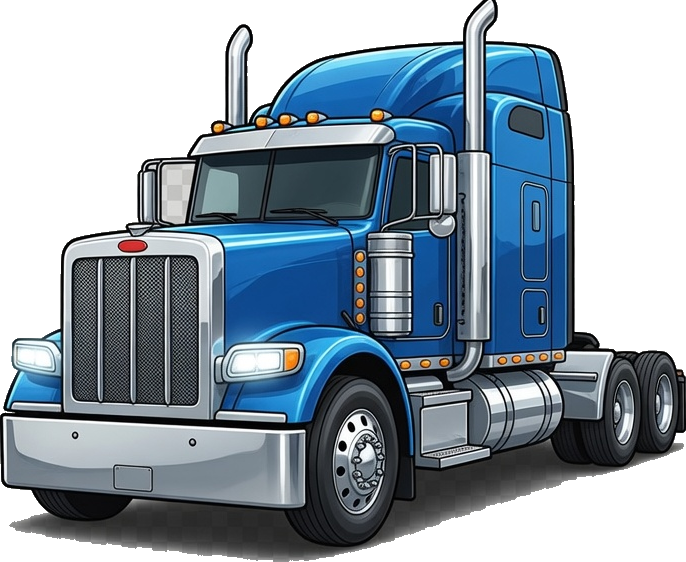
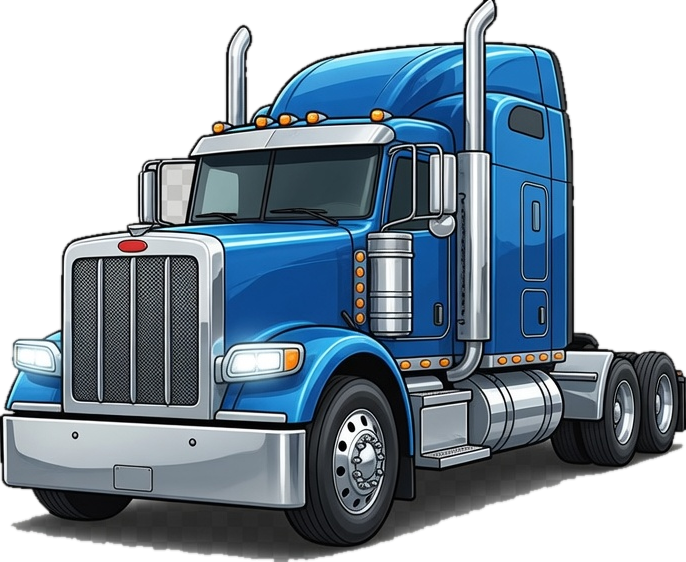
Remove the pass guarantee / refund claim everywhere (it does not exist)
There is no Pass Guarantee, no 100% money-back, no 24h refund, on CDL or any
plan. All sales are final. The claim was false advertising and the owner has
killed it for good. Swept every surface:

- FAQ (home + /faq): dropped the guarantee sentence from the CDL answer and
  the refund-policy answer; removed the JSON-LD 'What is the Pass Guarantee?'
  entry.
- Pricing/plan badges (home, /upgrade, /result, /test): the CDL 'Guarantee'
  badge is now an honest 'Car tests included' (new planCdlBadge key x5).
- featCdl: dropped the 'Pass or 100% refund' bullet (5 langs, both apps).
- Homepage footer guarantee pill removed (web + mobile).
- /terms, /about, /vs, layout SEO description: guarantee/refund text removed.
- Telegram bot: pricing + refund messages (all 5 langs) no longer claim a
  guarantee or a 24h refund.

Verified: no tex.guarantee*/planGuaranteedBadge/Pass Guarantee/100% refund
renders anywhere. tsc + lint clean.

diff --git a/lib/translations.js b/lib/translations.js
@@ -405,6 +405,7 @@ export const t = {
     proPlanLabel: 'PRO PLAN',
     // Pricing v2
     planGuaranteedBadge: '🛡️ Guarantee',
+    planCdlBadge: 'Car tests included',
     // pricingValueProp removed 2026-05-26: "money back if you don't pass" was
     // not our actual policy. 24h refund (universal) and CDL Pro Pass Guarantee
     // (CDL only) are the real promises; both are stated elsewhere.
@@ -424,7 +425,7 @@ export const t = {
       { q: 'Will I pass on the first try?', a: 'That\'s the plan. Practice until Real Exam mode shows a steady 85%+. That\'s how our customers walk in and pass first try.' },
       { q: 'What do I get besides the questions?', a: 'A personal path to your license: every answer explained with a reference to the official manual, a real-exam simulation with the same timer, and live human support on Telegram, from DMV paperwork to finding a driving school nearby. You\'re not studying alone.' },
       { q: 'Why DMVSOS instead of a free app?', a: 'Free apps give you a handful of outdated questions and disappear when you need help. We re-verify the whole bank every month, cover all 50 states, and answer you personally when you get stuck.' },
-      { q: 'What does CDL Pro include?', a: 'All three CDL sections as separate practice modes: General Knowledge, Air Brakes, Combination Vehicles, plus the full Car bank included. And the Pass Guarantee: fail your real exam, get a 100% refund.' },
+      { q: 'What does CDL Pro include?', a: 'All three CDL sections as separate practice modes: General Knowledge, Air Brakes, Combination Vehicles, and the full Car bank is included too.' },
       { q: 'How does billing work?', a: 'One payment, 30 days of access. No subscription, no auto-renewal. Need more time? Extend for $9.99.' },
       { q: 'Are the questions up to date?', a: 'We re-verify the entire bank every month. When your state changes a rule, our tests reflect it within about two weeks.' },
     ],
@@ -450,7 +451,7 @@ export const t = {
     // Feature lists for pricing cards
     featMoto: ['✓ Full Motorcycle question bank', '✓ All 50 states · 5 languages', '🌐 View original English question anytime', '✓ All exam modes unlocked', '✓ Real exam simulation', '✓ Explanations straight from the manual'],
     featCar: ['✓ Full Car question bank', '✓ All 50 states · 5 languages', '🌐 View original English question anytime', '✓ All exam modes unlocked', '✓ Real exam simulation (60 min)', '✓ Explanations straight from the manual'],
-    featCdl: ['✓ Full CDL question bank', '✓ Car tests included', '✓ All 50 states · 5 languages', '🌐 View original English question anytime', '✓ All exam modes unlocked', '🛡️ Pass or 100% refund'],
+    featCdl: ['✓ Full CDL question bank', '✓ Car tests included', '✓ All 50 states · 5 languages', '🌐 View original English question anytime', '✓ All exam modes unlocked'],
     // Upgrade page
     freePracticeLabel: 'Free Practice',
     freePracticeDesc: '20 questions · always included · all 50 states',
@@ -857,6 +858,7 @@ export const t = {
     proPlanLabel: 'PRO ПЛАН',
     // Pricing v2
     planGuaranteedBadge: '🛡️ Гарантия',
+    planCdlBadge: 'Тесты для авто включены',
     // pricingValueProp removed — fail-refund не входит в политику.
     pricingStartFree: 'Или начни бесплатно  ·  20 вопросов, без регистрации',
     // Social proof
@@ -874,7 +876,7 @@ export const t = {
       { q: 'Сдам ли я с первого раза?', a: 'Для этого всё и сделано. Тренируйся, пока режим «Реальный экзамен» не покажет стабильные 85%+. Так наши клиенты и сдают с первого раза.' },
       { q: 'Что я получаю, кроме вопросов?', a: 'Личный путь до прав: объяснение каждого ответа со ссылкой на официальный мануал, английский оригинал любого вопроса в одно касание (в Pro), чтобы на реальном экзамене ничего не удивило, симуляция экзамена с настоящим таймером и живая поддержка в Telegram на русском: от документов для DMV до автошколы рядом. Ты не один.' },
       { q: 'Можно ли сдавать реальный экзамен на русском?', a: 'В большинстве штатов да: Калифорния, Нью-Йорк, Техас и ещё 30+. Где тест только на английском, тренируешься на русском с английским оригиналом рядом и приходишь готовым.' },
-      { q: 'Что включает CDL Pro?', a: 'Все три секции CDL отдельными режимами: General Knowledge, Air Brakes, Combination Vehicles, плюс полная база для легковых включена. И Pass Guarantee: не сдал реальный экзамен, вернём 100%.' },
+      { q: 'Что включает CDL Pro?', a: 'Все три секции CDL отдельными режимами: General Knowledge, Air Brakes, Combination Vehicles, и полная база для легковых тоже включена.' },
       { q: 'Как работает оплата?', a: 'Один платёж, 30 дней доступа. Без подписки и автосписаний. Нужно больше времени? Продление за $9.99.' },
       { q: 'Вопросы обновляются?', a: 'Перепроверяем всю базу каждый месяц. Штат поменял правило? У нас это появится в течение пары недель.' },
     ],
@@ -897,7 +899,7 @@ export const t = {
     extendCta: '+30 дней · $9.99',
     featMoto: ['✓ Полная база вопросов по мотоциклам', '✓ Все 50 штатов · 5 языков', '🌐 Оригинал вопроса на английском в любой момент', '✓ Все режимы тестов', '✓ Симуляция экзамена DMV', '✓ Подробные объяснения прямо из мануала'],
     featCar: ['✓ Полная база вопросов для авто', '✓ Все 50 штатов · 5 языков', '🌐 Оригинал вопроса на английском в любой момент', '✓ Все режимы тестов', '✓ Симуляция экзамена DMV (60 мин)', '✓ Подробные объяснения прямо из мануала'],
-    featCdl: ['✓ Полная база вопросов CDL', '✓ Тесты для авто включены', '✓ Все 50 штатов · 5 языков', '🌐 Оригинал вопроса на английском в любой момент', '✓ Все режимы тестов', '🛡️ Сдашь или 100% возврат'],
+    featCdl: ['✓ Полная база вопросов CDL', '✓ Тесты для авто включены', '✓ Все 50 штатов · 5 языков', '🌐 Оригинал вопроса на английском в любой момент', '✓ Все режимы тестов'],
     freePracticeLabel: 'Бесплатная практика',
     freePracticeDesc: '20 вопросов · всегда включено · все 50 штатов',
     freePracticePrice: '✓ Бесплатно',
@@ -1301,6 +1303,7 @@ export const t = {
     proPlanLabel: 'PLAN PRO',
     // Pricing v2
     planGuaranteedBadge: '🛡️ Garantía',
+    planCdlBadge: 'Pruebas de auto incluidas',
     // pricingValueProp eliminado — la devolución por suspender no es política.
     pricingStartFree: 'O empieza gratis  ·  20 preguntas, sin registro',
     // Social proof
@@ -1318,7 +1321,7 @@ export const t = {
       { q: '¿Aprobaré a la primera?', a: 'Para eso está hecho. Practica hasta que el modo Examen Real te muestre un 85%+ estable. Así nuestros clientes aprueban a la primera.' },
       { q: '¿Qué recibo además de las preguntas?', a: 'Un camino personal hasta tu licencia: cada respuesta explicada con referencia al manual oficial, el original en inglés de cualquier pregunta con un toque (en Pro) para que nada te sorprenda en el examen, simulación con cronómetro real y soporte humano por Telegram en español: desde los documentos del DMV hasta una autoescuela cerca. No estás solo.' },
       { q: '¿Puedo tomar el examen real en español?', a: 'En la mayoría de los estados sí: California, Nueva York, Texas y 30+ más. Donde solo es en inglés, practicas en español con el original en inglés al lado y llegas preparado.' },
-      { q: '¿Qué incluye CDL Pro?', a: 'Las tres secciones del CDL como modos separados: General Knowledge, Air Brakes, Combination Vehicles, más la base completa de auto incluida. Y la Pass Guarantee: si repruebas el examen real, te devolvemos el 100%.' },
+      { q: '¿Qué incluye CDL Pro?', a: 'Las tres secciones del CDL como modos separados: General Knowledge, Air Brakes, Combination Vehicles, y la base completa de auto también está incluida.' },
       { q: '¿Cómo funciona el pago?', a: 'Un solo pago, 30 días de acceso. Sin suscripción ni renovación automática. ¿Necesitas más tiempo? Extiende por $9.99.' },
       { q: '¿Se actualizan las preguntas?', a: 'Reverificamos toda la base cada mes. Si tu estado cambia una regla, nuestros tests lo reflejan en un par de semanas.' },
     ],
@@ -1341,7 +1344,7 @@ export const t = {
     extendCta: '+30 días · $9.99',
     featMoto: ['✓ Banco completo de preguntas de motocicleta', '✓ Los 50 estados · 5 idiomas', '🌐 Pregunta original en inglés en cualquier momento', '✓ Todos los modos de examen', '✓ Simulación de examen real', '✓ Explicaciones directas del manual'],
     featCar: ['✓ Banco completo de preguntas de auto', '✓ Los 50 estados · 5 idiomas', '🌐 Pregunta original en inglés en cualquier momento', '✓ Todos los modos de examen', '✓ Simulación de examen DMV (60 min)', '✓ Explicaciones directas del manual'],
-    featCdl: ['✓ Banco completo de preguntas CDL', '✓ Pruebas de auto incluidas', '✓ Los 50 estados · 5 idiomas', '🌐 Pregunta original en inglés en cualquier momento', '✓ Todos los modos de examen', '🛡️ Apruebas o reembolso del 100%'],
+    featCdl: ['✓ Banco completo de preguntas CDL', '✓ Pruebas de auto incluidas', '✓ Los 50 estados · 5 idiomas', '🌐 Pregunta original en inglés en cualquier momento', '✓ Todos los modos de examen'],
     freePracticeLabel: 'Práctica gratuita',
     freePracticeDesc: '20 preguntas · siempre incluido · los 50 estados',
     freePracticePrice: '✓ Gratis',
@@ -1745,6 +1748,7 @@ export const t = {
     proPlanLabel: 'PRO计划',
     // Pricing v2
     planGuaranteedBadge: '🛡️ 保证通过',
+    planCdlBadge: '含汽车考试',
     // pricingValueProp 已移除 — 不通过退款不属于我们的政策。
     pricingStartFree: '或免费开始  ·  20道题，无需注册',
     // Social proof
@@ -1762,7 +1766,7 @@ export const t = {
       { q: '我能一次通过吗？', a: '这正是我们的目标。练到「真实考试」模式稳定在 85% 以上，我们的客户就是这样一次通过的。' },
       { q: '除了题目我还能得到什么？', a: '一条通往驾照的专属路径：每道答案都附官方手册出处说明，任意题目一键查看英文原题（Pro 功能），考场上不再担心英文表述；还有真实计时的模拟考试，以及 Telegram 中文人工支持，从 DMV 材料到附近驾校。你不是一个人在准备。' },
       { q: '真实考试可以用中文考吗？', a: '大多数州可以：加州、纽约、德州等 30 多个州。只允许英文的州，你可以用中文练习、随时对照英文原题，准备充分再上场。' },
-      { q: 'CDL Pro 包含什么？', a: 'CDL 三个部分独立练习：General Knowledge、Air Brakes、Combination Vehicles，并包含完整小车题库。还有 Pass Guarantee：真实考试未通过，全额退款。' },
+      { q: 'CDL Pro 包含什么？', a: 'CDL 三个部分独立练习：General Knowledge、Air Brakes、Combination Vehicles，并且完整的小车题库也包含在内。' },
       { q: '怎么收费？', a: '一次付款，30 天使用。无订阅、不自动续费。需要更多时间？$9.99 延长 30 天。' },
       { q: '题目会更新吗？', a: '我们每月重新核验整个题库。州里规则一变，两周内同步到题目。' },
     ],
@@ -1785,7 +1789,7 @@ export const t = {
     extendCta: '+30天 · $9.99',
     featMoto: ['✓ 完整摩托车题库', '✓ 全部50个州 · 5种语言', '🌐 随时查看英文原题', '✓ 所有考试模式', '✓ 真实考试模拟', '✓ 解释直接来自官方手册'],
     featCar: ['✓ 完整汽车题库', '✓ 全部50个州 · 5种语言', '🌐 随时查看英文原题', '✓ 所有考试模式', '✓ 真实考试模拟（60分钟）', '✓ 解释直接来自官方手册'],
-    featCdl: ['✓ 完整CDL题库', '✓ 包含汽车考试', '✓ 全部50个州 · 5种语言', '🌐 随时查看英文原题', '✓ 所有考试模式', '🛡️ 通过或全额退款'],
+    featCdl: ['✓ 完整CDL题库', '✓ 包含汽车考试', '✓ 全部50个州 · 5种语言', '🌐 随时查看英文原题', '✓ 所有考试模式'],
     freePracticeLabel: '免费练习',
     freePracticeDesc: '20道题 · 始终免费 · 全部50个州',
     freePracticePrice: '✓ 免费',
@@ -2189,6 +2193,7 @@ export const t = {
     proPlanLabel: 'PRO ПЛАН',
     // Pricing v2
     planGuaranteedBadge: '🛡️ Гарантія',
+    planCdlBadge: 'Тести для авто включені',
     // pricingValueProp прибрано — повернення коштів за провал тесту не є нашою політикою.
     pricingStartFree: 'Або почни безкоштовно  ·  20 питань, без реєстрації',
     // Social proof
@@ -2206,7 +2211,7 @@ export const t = {
       { q: 'Чи складу я з першого разу?', a: 'Саме для цього все і зроблено. Тренуйся, поки режим «Реальний іспит» не покаже стабільні 85%+. Так наші клієнти і складають з першого разу.' },
       { q: 'Що я отримую, крім питань?', a: 'Особистий шлях до прав: пояснення кожної відповіді з посиланням на офіційний мануал, англійський оригінал будь-якого питання в один дотик (у Pro), щоб на реальному іспиті ніщо не здивувало, симуляція іспиту зі справжнім таймером і жива підтримка в Telegram українською: від документів для DMV до автошколи поруч. Ти не сам.' },
       { q: 'Чи можна складати реальний іспит українською?', a: 'У більшості штатів так: Каліфорнія, Нью-Йорк, Техас і ще 30+. Де тест лише англійською, тренуєшся українською з англійським оригіналом поруч і приходиш готовим.' },
-      { q: 'Що включає CDL Pro?', a: 'Усі три секції CDL окремими режимами: General Knowledge, Air Brakes, Combination Vehicles, плюс повна база для легкових включена. І Pass Guarantee: не склав реальний іспит, повернемо 100%.' },
+      { q: 'Що включає CDL Pro?', a: 'Усі три секції CDL окремими режимами: General Knowledge, Air Brakes, Combination Vehicles, і повна база для легкових теж включена.' },
       { q: 'Як працює оплата?', a: 'Один платіж, 30 днів доступу. Без підписки й автосписань. Потрібно більше часу? Продовження за $9.99.' },
       { q: 'Чи оновлюються питання?', a: 'Переперевіряємо всю базу щомісяця. Штат змінив правило? У нас це зʼявиться протягом пари тижнів.' },
     ],
@@ -2229,7 +2234,7 @@ export const t = {
     extendCta: '+30 днів · $9.99',
     featMoto: ['✓ Повна база питань з мотоциклів', '✓ Усі 50 штатів · 5 мов', '🌐 Оригінал питання англійською в будь-який момент', '✓ Усі режими тестів', '✓ Емуляція реального іспиту', '✓ Детальні пояснення прямо з посібника'],
     featCar: ['✓ Повна база питань для авто', '✓ Усі 50 штатів · 5 мов', '🌐 Оригінал питання англійською в будь-який момент', '✓ Усі режими тестів', '✓ Емуляція реального іспиту (60 хв)', '✓ Детальні пояснення прямо з посібника'],
-    featCdl: ['✓ Повна база питань CDL', '✓ Тести для авто включені', '✓ Усі 50 штатів · 5 мов', '🌐 Оригінал питання англійською в будь-який момент', '✓ Усі режими тестів', '🛡️ Складеш або 100% повернення'],
+    featCdl: ['✓ Повна база питань CDL', '✓ Тести для авто включені', '✓ Усі 50 штатів · 5 мов', '🌐 Оригінал питання англійською в будь-який момент', '✓ Усі режими тестів'],
     freePracticeLabel: 'Безкоштовна практика',
     freePracticeDesc: '20 питань · завжди включено · усі 50 штатів',
     freePracticePrice: '✓ Безкоштовно',

diff --git a/app/api/telegram/route.js b/app/api/telegram/route.js
@@ -117,20 +117,17 @@ Or just type your question - I'll forward it.`,
 
 🏍️ Moto Pass - $19.99 / 30 days
 🚗 Auto Pass - $29.99 / 30 days
-🚛 CDL Pro - $49.99 / 30 days + Pass Guarantee
+🚛 CDL Pro - $49.99 / 30 days (Car tests included)
 
-🔄 Need more time? Extend any pass for $9.99 / +30 days
-
-24h full refund. No questions asked.`,
+🔄 Need more time? Extend any pass for $9.99 / +30 days`,
     states: `🗽 We cover <b>all 50 US states + DC</b>.
 
 Just pick your state on dmvsos.com - every state has its own question bank built from the official driver's handbook.`,
     languages: `🌍 We support 5 languages:
 🇺🇸 English  🇷🇺 Русский  🇪🇸 Español  🇨🇳 中文  🇺🇦 Українська`,
-    refund: `💸 <b>Refund policy</b>
+    refund: `💸 <b>Payments</b>
 
-Within 24h of purchase: full refund, no questions asked.
-CDL Pro Pass Guarantee: refund or 90d extension if you fail the actual DMV test with 85%+ practice score.`,
+Passes are one-time purchases, so they are final. If something is wrong, message us here and we will make it right.`,
     human: `🧑💻 Sending your message to Evgenii (founder). Usually replies within 4 hours.`,
     forwardedAck: `✅ Got it. Evgenii will reply shortly.`,
     unknown: `Commands: /start /pricing /states /languages /refund /human /lang`,
@@ -139,10 +136,10 @@ CDL Pro Pass Guarantee: refund or 90d extension if you fail the actual DMV test 
   },
   ru: {
     welcome: `👋 Привет! Я бот поддержки DMVSOS.\n\n/pricing /states /languages /refund /human /lang\n\nИли просто напиши вопрос - передам.`,
-    pricing: `💰 <b>Одноразовая оплата - без подписок</b>\n\n🏍️ Moto Pass - $19.99 / 30 дней\n🚗 Auto Pass - $29.99 / 30 дней\n🚛 CDL Pro - $49.99 / 30 дней + Pass Guarantee\n\n🔄 Продление $9.99 / +30 дней\n24h полный refund.`,
+    pricing: `💰 <b>Одноразовая оплата - без подписок</b>\n\n🏍️ Moto Pass - $19.99 / 30 дней\n🚗 Auto Pass - $29.99 / 30 дней\n🚛 CDL Pro - $49.99 / 30 дней (тесты для авто включены)\n\n🔄 Продление $9.99 / +30 дней`,
     states: `🗽 Покрываем <b>все 50 штатов + DC</b>. Выбери штат на dmvsos.com.`,
     languages: `🌍 5 языков: 🇺🇸 EN · 🇷🇺 RU · 🇪🇸 ES · 🇨🇳 ZH · 🇺🇦 UA`,
-    refund: `💸 24h полный refund без вопросов. CDL Pro Pass Guarantee: refund или продление 90 дней при провале с 85%+ score.`,
+    refund: `💸 Пропуска - разовая покупка, поэтому они окончательны. Если что-то не так, напиши сюда, разберёмся.`,
     human: `🧑💻 Передаю Евгению. Обычно отвечает в течение 4 часов.`,
     forwardedAck: `✅ Получил. Евгений ответит скоро.`,
     unknown: `Команды: /start /pricing /states /languages /refund /human /lang`,
@@ -154,7 +151,7 @@ CDL Pro Pass Guarantee: refund or 90d extension if you fail the actual DMV test 
     pricing: `💰 Pago único, sin suscripciones\n🏍️ Moto $19.99 · 🚗 Auto $29.99 · 🚛 CDL $49.99 / 30 días\nExtensión $9.99 / +30 días`,
     states: `🗽 Los 50 estados + DC en dmvsos.com.`,
     languages: `🌍 5 idiomas: EN · RU · ES · ZH · UA`,
-    refund: `💸 Reembolso completo en 24h.`,
+    refund: `💸 Las compras son únicas y finales. Si algo está mal, escríbenos aquí y lo resolvemos.`,
     human: `🧑💻 Enviando a Evgenii. Responde en ~4h.`,
     forwardedAck: `✅ Recibido.`,
     unknown: `Comandos: /start /pricing /states /languages /refund /human /lang`,
@@ -166,7 +163,7 @@ CDL Pro Pass Guarantee: refund or 90d extension if you fail the actual DMV test 
     pricing: `💰 一次性付款\n🏍️ $19.99 · 🚗 $29.99 · 🚛 $49.99 / 30天`,
     states: `🗽 全美50州 + DC，在 dmvsos.com 选择`,
     languages: `🌍 5种语言`,
-    refund: `💸 24小时全额退款。`,
+    refund: `💸 通行证为一次性购买，因此为最终交易。如有问题，请在此联系我们，我们会处理。`,
     human: `🧑💻 转发给Evgenii，约4小时回复。`,
     forwardedAck: `✅ 已收到。`,
     unknown: `命令: /start /pricing /states /languages /refund /human /lang`,
@@ -178,7 +175,7 @@ CDL Pro Pass Guarantee: refund or 90d extension if you fail the actual DMV test 
     pricing: `💰 Разова оплата, без підписок\n🏍️ $19.99 · 🚗 $29.99 · 🚛 $49.99 / 30 днів`,
     states: `🗽 Усі 50 штатів + DC на dmvsos.com.`,
     languages: `🌍 5 мов`,
-    refund: `💸 Повне повернення протягом 24h.`,
+    refund: `💸 Пропуски - разова покупка, тож вони остаточні. Якщо щось не так, напиши сюди, розберемося.`,
     human: `🧑💻 Передаю Євгенію. Відповідає за ~4 години.`,
     forwardedAck: `✅ Прийнято.`,
     unknown: `Команди: /start /pricing /states /languages /refund /human /lang`,

diff --git a/app/page.js b/app/page.js
@@ -118,14 +118,6 @@ export default function Home() {
           text: 'Yes. DMVSOS covers all 50 US states for Car, CDL, and Motorcycle permit tests.',
         },
       },
-      {
-        '@type': 'Question',
-        name: 'What is the Pass Guarantee?',
-        acceptedAnswer: {
-          '@type': 'Answer',
-          text: `CDL Pro (${PASS_META.cdl.price}, 30-day access) includes a 100% money-back guarantee if you fail your CDL test, plus direct support via Telegram in your language.`,
-        },
-      },
     ],
   });
 
@@ -572,7 +564,7 @@ export default function Home() {
           {/* CDL Pro  ·  best value */}
           <div className="relative bg-white rounded-2xl p-5 border-2 border-[#F59E0B] shadow-md flex flex-col">
             <span className="absolute -top-3 left-1/2 -translate-x-1/2 bg-[#F59E0B] text-[#0B1C3D] text-[10px] font-bold px-3 py-1 rounded-full whitespace-nowrap">
-              {tex.planGuaranteedBadge}
+              {tex.planCdlBadge || 'Car tests included'}
             </span>
             <div className="h-[66px] flex items-center justify-center mb-2 mt-1">
               {/* eslint-disable-next-line @next/next/no-img-element */}
@@ -711,13 +703,8 @@ export default function Home() {
         </div>
       </section>
 
-      {/* Footer with guarantee badge */}
+      {/* Footer */}
       <footer className="w-full max-w-lg mx-auto px-4 mt-8 pb-8">
-        <div className="text-center mb-4">
-          <span className="inline-flex items-center gap-1.5 text-xs text-[#10B981] font-medium bg-[#ECFDF5] px-3 py-1.5 rounded-full">
-            <svg width="13" height="13" viewBox="0 0 24 24" className="shrink-0" style={{ fill: '#10B981' }}><path d="M12,1L3,5V11C3,16.55 6.84,21.74 12,23C17.16,21.74 21,16.55 21,11V5L12,1Z" /></svg>{tex.guaranteeBadge}
-          </span>
-        </div>
         <p className="text-xs text-[#94A3B8] text-center leading-relaxed">
           {tex.footerLegal || 'By continuing, you agree to our'}{' '}
           <Link href="/terms" className="text-[#2563EB] font-medium">{tex.terms || 'Terms'}</Link> {tex.and || 'and'}{' '}

diff --git a/app/upgrade/page.js b/app/upgrade/page.js
@@ -64,7 +64,7 @@ function UpgradeContent() {
       img: '/vehicles/truck-hero.png',
       name: tex.planCdlPro,
       duration: tex.planDuration,
-      badge: tex.planGuaranteedBadge,
+      badge: tex.planCdlBadge || 'Car tests included',
       features: tex.featCdl,
       btnLabel: tex.planGetCdl,
     },
@@ -303,11 +303,8 @@ function UpgradeContent() {
         </ul>
       </div>
 
-      {/* Removed: pricing value-prop line claimed "money back if you don't
-          pass" — that's NOT our actual policy (24h refund is universal,
-          fail-refund only exists for CDL Pro Pass Guarantee). Kept the
-          24h-refund / no-subscription wording inside the bureaucracy block
-          and the upgradeSubtext at the top — those are accurate. */}
+      {/* No refund or guarantee claims anywhere: there is no pass guarantee,
+          no money-back, no 24h refund, on any plan. All sales are final. */}
 
       {error && (
         <p className="text-center text-xs text-red-400 font-medium mb-4">

diff --git a/app/vs/page.js b/app/vs/page.js
@@ -74,7 +74,7 @@ const COMPARISON = [
   },
   {
     feature: 'Refund policy',
-    dmvsos: 'All sales final (CDL Pro: pass or 100% refund)',
+    dmvsos: 'All sales final',
     driversed: '72h with conditions',
     aceable: 'Varies by state',
     drivingtests: 'N/A',
@@ -94,9 +94,9 @@ const COMPARISON = [
     drivingtests: 'Email',
   },
   {
-    feature: 'CDL Pass Guarantee',
-    dmvsos: '100% refund if you fail the real CDL test',
-    driversed: 'Pass Guarantee on some courses',
+    feature: 'CDL Pro includes Car tests',
+    dmvsos: 'Yes, one pass covers both',
+    driversed: 'No',
     aceable: 'No',
     drivingtests: 'No',
   },

diff --git a/app/faq/page.js b/app/faq/page.js
@@ -23,7 +23,7 @@ const QA = [
   },
   {
     q: 'Do you offer the Commercial Driver License (CDL) test?',
-    a: 'Yes. CDL Pro pass includes General Knowledge, Air Brakes, and Combination Vehicles sections. Specific endorsements (Hazmat, Tanker, Passenger, School Bus) are coming. CDL Pro includes our Pass Guarantee: pass the real CDL test or get a 100% refund.',
+    a: 'Yes. CDL Pro pass includes General Knowledge, Air Brakes, and Combination Vehicles sections, and the Car tests are included too. Specific endorsements (Hazmat, Tanker, Passenger, School Bus) are coming.',
   },
   {
     q: 'Is there a subscription?',
@@ -31,7 +31,7 @@ const QA = [
   },
   {
     q: 'What is the refund policy?',
-    a: 'Passes are one-time purchases, so they are final. If something is wrong, message us and we will make it right. CDL Pro carries a Pass Guarantee: pass the real CDL test or get a 100% refund (submit your DMV fail letter within 30 days).',
+    a: 'Passes are one-time purchases, so they are final. If something is wrong, message us on Telegram and we will make it right.',
   },
   {
     q: 'Do I need to create an account?',

diff --git a/app/terms/page.js b/app/terms/page.js
@@ -59,8 +59,7 @@ export default function Terms() {
                 Moto Pass ($19.99) for motorcycle tests, Auto Pass ($29.99) for car tests, and CDL Pro
                 ($49.99) for CDL tests with car content included. Each pass unlocks 30 days of access.
                 An Extension ($9.99) adds another 30 days to any active pass.
-                All purchases are final. The CDL Pro plan includes a Pass Guarantee — a full refund if you fail your
-                CDL test (subject to verification by submitting your DMV fail letter within 30 days).
+                All purchases are final.
               </p>
             </section>
 

diff --git a/app/about/page.js b/app/about/page.js
@@ -75,7 +75,7 @@ export default function AboutPage() {
                 <strong>Free to start.</strong> 20 questions per state per language, no signup.
               </li>
               <li>
-                <strong>CDL Pass Guarantee:</strong> pass the real CDL test or get a 100% refund.
+                <strong>CDL Pro includes the Car tests too.</strong> One pass covers commercial and car prep.
               </li>
             </ul>
 

diff --git a/app/layout.js b/app/layout.js
@@ -131,7 +131,7 @@ const jsonLd = {
           name: 'CDL Pro',
           price: '49.99',
           priceCurrency: 'USD',
-          description: '30 days unlimited CDL (Commercial Driver License) practice tests with Pass Guarantee.',
+          description: '30 days unlimited CDL (Commercial Driver License) practice tests, with the Car tests included.',
         },
       ],
       featureList: [

diff --git a/app/result/page.js b/app/result/page.js
@@ -274,7 +274,7 @@ function ResultContent() {
                     borderColor: rIsCdl ? '#F59E0B' : rIsMoto ? '#D97706' : '#2563EB',
                     background: rIsCdl ? '#FFFBEB' : rIsMoto ? '#FFF7ED' : '#EFF6FF',
                   }}>
-                  {rIsCdl && <div className="text-[9px] font-bold text-[#0B1C3D] bg-[#F59E0B] rounded-full px-1.5 py-0.5 mb-1 mx-auto w-fit">{tex.planGuaranteedBadge}</div>}
+                  {rIsCdl && <div className="text-[9px] font-bold text-[#0B1C3D] bg-[#F59E0B] rounded-full px-1.5 py-0.5 mb-1 mx-auto w-fit">{tex.planCdlBadge || 'Car tests included'}</div>}
                   {!rIsCdl && !rIsMoto && <div className="text-[9px] font-bold text-white bg-[#2563EB] rounded-full px-1.5 py-0.5 mb-1 mx-auto w-fit">{tex.planPopular}</div>}
                   <div className="text-3xl mb-1">{rPlan.icon}</div>
                   <div className="text-xs font-bold mb-0.5" style={{ color: rIsCdl ? '#92400E' : rIsMoto ? '#D97706' : '#2563EB' }}>

diff --git a/app/test/page.js b/app/test/page.js
@@ -1234,7 +1234,7 @@ function TestContent() {
                     borderColor: isCdl ? '#F59E0B' : isMoto ? '#D97706' : '#2563EB',
                     background: isCdl ? '#FFFBEB' : isMoto ? '#FFF7ED' : '#EFF6FF',
                   }}>
-                  {isCdl && <div className="text-[9px] font-bold text-[#0B1C3D] bg-[#F59E0B] rounded-full px-1.5 py-0.5 mb-1 mx-auto w-fit">{tex.planGuaranteedBadge}</div>}
+                  {isCdl && <div className="text-[9px] font-bold text-[#0B1C3D] bg-[#F59E0B] rounded-full px-1.5 py-0.5 mb-1 mx-auto w-fit">{tex.planCdlBadge || 'Car tests included'}</div>}
                   {!isCdl && !isMoto && <div className="text-[9px] font-bold text-white bg-[#2563EB] rounded-full px-1.5 py-0.5 mb-1 mx-auto w-fit">{tex.planPopular}</div>}
                   <div className="text-3xl mb-1">{plan.icon}</div>
                   <div className="text-xs font-bold mb-0.5" style={{ color: isCdl ? '#92400E' : isMoto ? '#D97706' : '#2563EB' }}>